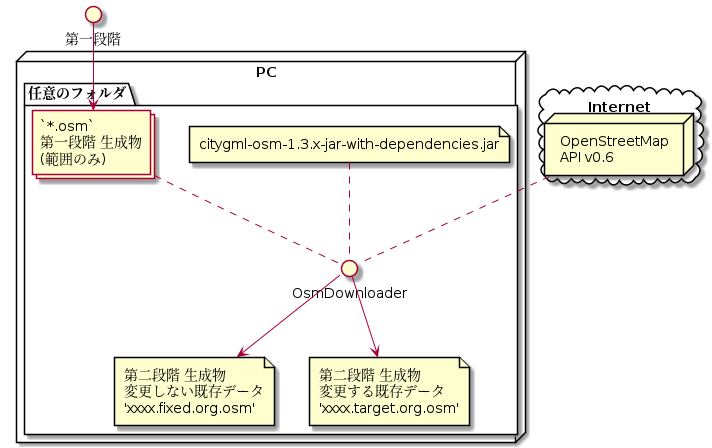
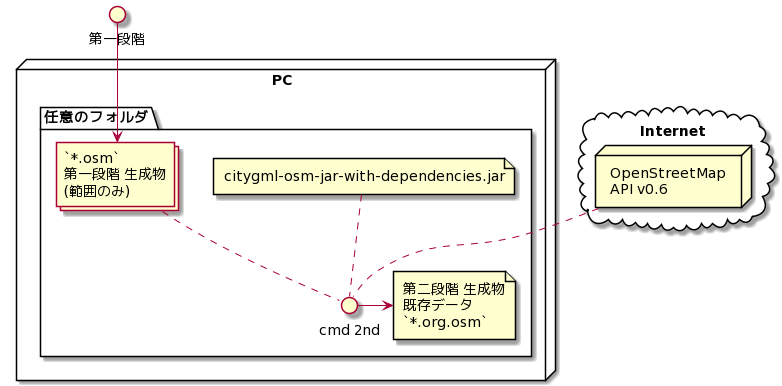
実行コマンド 1st, 2nd, 3rd

diff --git a/README.md b/README.md
@@ -64,7 +64,7 @@ CityGMLから、OpenStreetMapへのJOSM用のOSMデータを生成する
 
 ![startup.pu](doc/startup.png)
 
-- (1) [GitHub-Release](https://github.com/yuuhayashi/citygml-osm/releases) から 'citygml-osm-1.3.x.zip' をダウンロードして、'任意のフォルダ'に解凍する<br/> `citygml-osm-1.3.x-jar-with-dependencies.jar` と `conversion.json` が解凍されます
+- (1) [GitHub-Release](https://github.com/yuuhayashi/citygml-osm/releases) から 'citygml-osm-1.3.x.zip' をダウンロードして、'任意のフォルダ'に解凍する<br/> `citygml-osm-jar-with-dependencies.jar` と `conversion.json` が解凍されます
   - [GitHub](https://github.com/yuuhayashi/citygml-osm)の右側にある「[Release](https://github.com/yuuhayashi/citygml-osm/releases)」欄から最新'Latest'版をダウンロードしてください
 
 - (2) [オープンデータ公開サイト](https://www.geospatial.jp/ckan/dataset/plateau)から「3D都市データ」をダウンロードする
@@ -75,7 +75,7 @@ CityGMLから、OpenStreetMapへのJOSM用のOSMデータを生成する
 
 ```
   $ cd (解凍先フォルダ)
-  $ java -jar citygml-osm-1.3.x-jar-with-dependencies.jar
+  $ java -jar citygml-osm-jar-with-dependencies.jar 1st
 ```
 
 - (5) JOSMを起動して、「`*****.osm`」ファイルをJOSMにドロップしてください。<br/>生成されたデータを確認することができます。
@@ -88,7 +88,7 @@ CityGMLから、OpenStreetMapへのJOSM用のOSMデータを生成する
 
 ```
   $ cd (解凍先フォルダ)
-  $ java -jar citygml-osm-1.3.x-jar-with-dependencies.jar
+  $ java -jar citygml-osm-jar-with-dependencies.jar 2nd
 ```
 
 - Issue #41 ['fixme'による手動選別](https://github.com/yuuhayashi/citygml-osm/issues/42)
@@ -109,7 +109,7 @@ CityGMLから、OpenStreetMapへのJOSM用のOSMデータを生成する
 
 ```
   $ cd (解凍先フォルダ)
-  $ java -cp citygml-osm-jar-with-dependencies.jar osm.surveyor.update.OsmUpdater
+  $ java -jar citygml-osm-jar-with-dependencies.jar 3rd
 ```
 
 - (2) JOSMを起動して、「`*.mrg.osm`」ファイルをJOSMにドロップしてください。<br/>生成されたデータを確認することができます。
